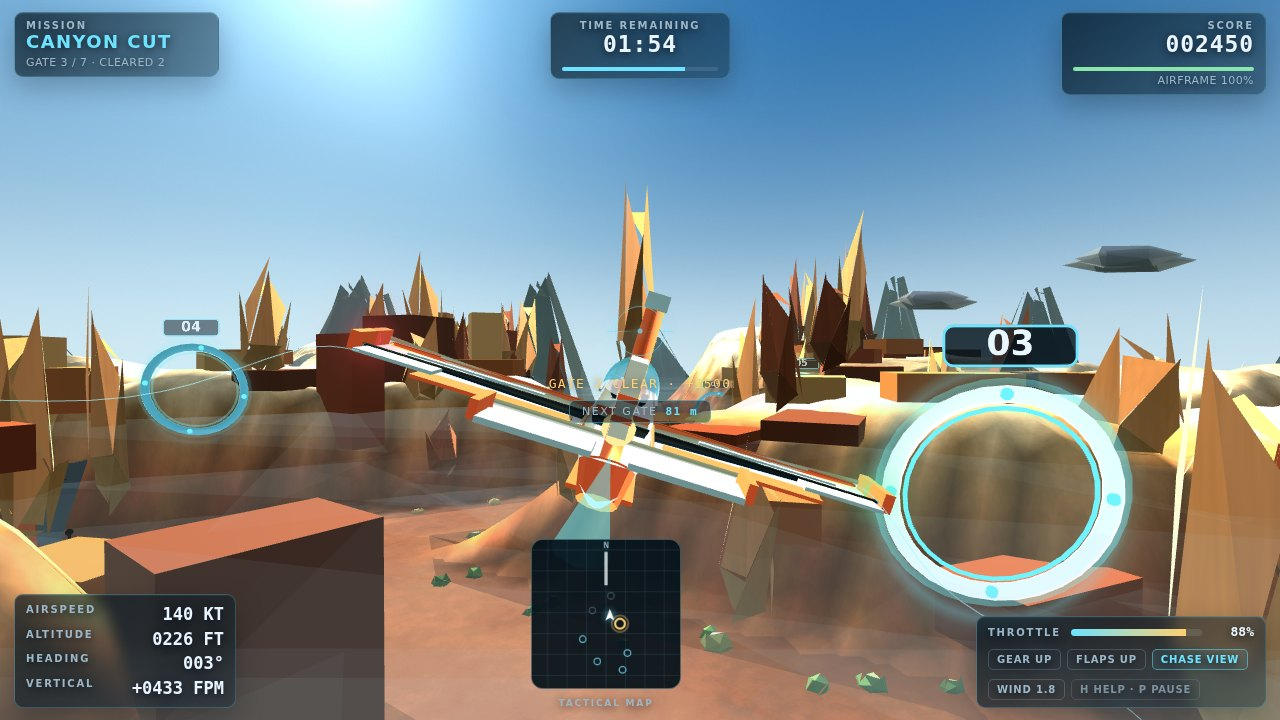
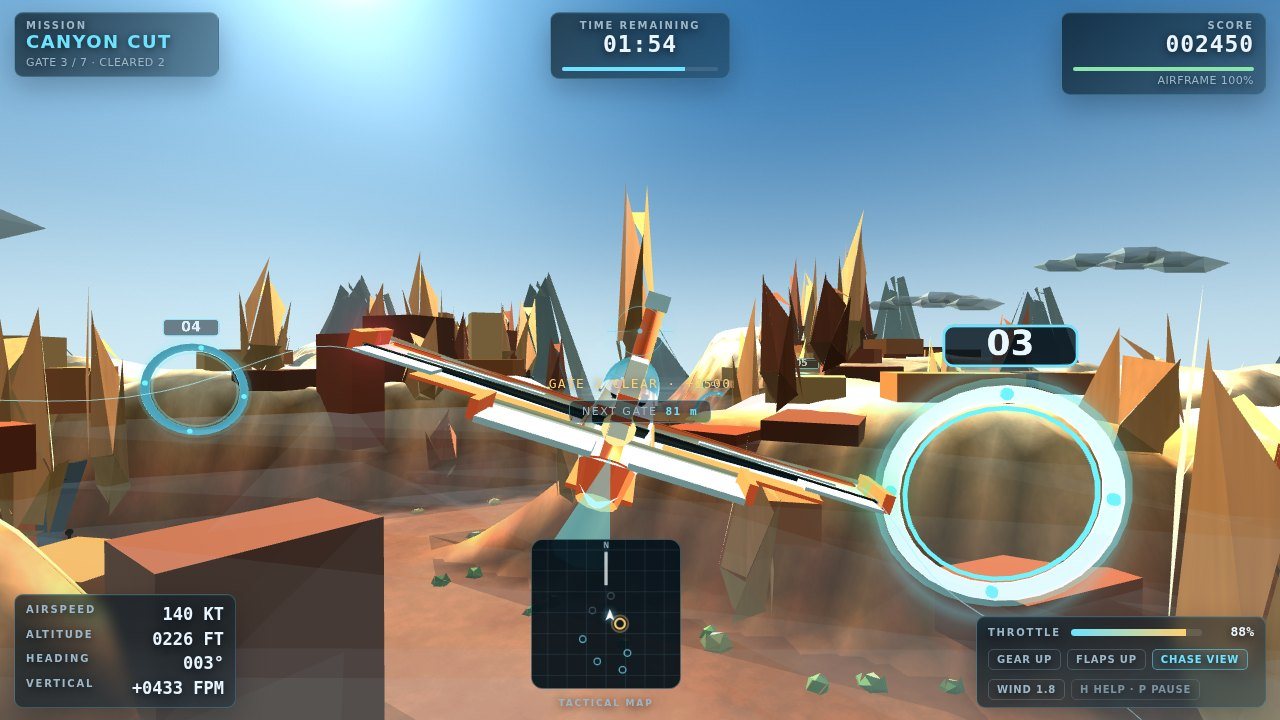
Fix cloud formations and refresh flight screenshots

Changed region(s): [[0.8125, 0.3361, 0.9688, 0.3972], [0.6875, 0.3972, 0.7812, 0.4583], [0.0, 0.275, 0.0312, 0.3361]]

diff --git a/game/src/worldAssets.js b/game/src/worldAssets.js
@@ -142,14 +142,14 @@ function mergeParts(parts) {
   const uvs = [];
   const indices = [];
   for (const part of parts) {
-    const { geometry, y = 0, scale = [1, 1, 1], tint = [1, 1, 1], shadeTop = 1, shadeBottom = 0.7 } = part;
+    const { geometry, x = 0, y = 0, z = 0, scale = [1, 1, 1], tint = [1, 1, 1], shadeTop = 1, shadeBottom = 0.7 } = part;
     const sourcePosition = geometry.attributes.position.array;
     const sourceNormal = geometry.attributes.normal?.array;
     const sourceUv = geometry.attributes.uv?.array;
     const base = positions.length / 3;
     for (let i = 0; i < sourcePosition.length; i += 3) {
       const py = sourcePosition[i + 1] * scale[1] + y;
-      positions.push(sourcePosition[i] * scale[0], py, sourcePosition[i + 2] * scale[2]);
+      positions.push(sourcePosition[i] * scale[0] + x, py, sourcePosition[i + 2] * scale[2] + z);
       normals.push(sourceNormal ? sourceNormal[i] : 0, sourceNormal ? sourceNormal[i + 1] : 1, sourceNormal ? sourceNormal[i + 2] : 0);
       const shade = shadeBottom + (shadeTop - shadeBottom) * smoothstep(-1.2, 4.5, py);
       colors.push(tint[0] * shade, tint[1] * shade, tint[2] * shade);
@@ -226,16 +226,27 @@ export function makeMountainGeometry() {
 
 export function makeCloudGeometry() {
   const random = createRandom(8831);
+  const offsets = [
+    [-1.65, -0.08, 0.05],
+    [-0.82, 0.22, -0.16],
+    [0, 0.02, 0],
+    [0.86, 0.28, 0.15],
+    [1.65, -0.02, -0.05],
+    [0.38, 0.55, -0.08],
+  ];
   const parts = [];
-  for (let i = 0; i < 5; i += 1) {
-    const puff = new THREE.IcosahedronGeometry(1, 0);
+  for (let i = 0; i < offsets.length; i += 1) {
+    const puff = new THREE.IcosahedronGeometry(1, 1);
+    const [x, y, z] = offsets[i];
     parts.push({
       geometry: puff,
-      y: i === 0 ? 0 : random.range(-0.2, 0.55),
-      scale: [random.range(1.1, 1.9), random.range(0.42, 0.72), random.range(0.8, 1.35)],
-      tint: [random.range(0.87, 1), random.range(0.92, 1), random.range(0.95, 1)],
-      shadeTop: 1.12,
-      shadeBottom: 0.42,
+      x: x + random.range(-0.08, 0.08),
+      y: y + random.range(-0.04, 0.08),
+      z: z + random.range(-0.06, 0.06),
+      scale: [random.range(0.72, 1.08), random.range(0.34, 0.55), random.range(0.55, 0.9)],
+      tint: [random.range(0.9, 1), random.range(0.94, 1), random.range(0.96, 1)],
+      shadeTop: 1.16,
+      shadeBottom: 0.5,
     });
   }
   return mergeParts(parts);
